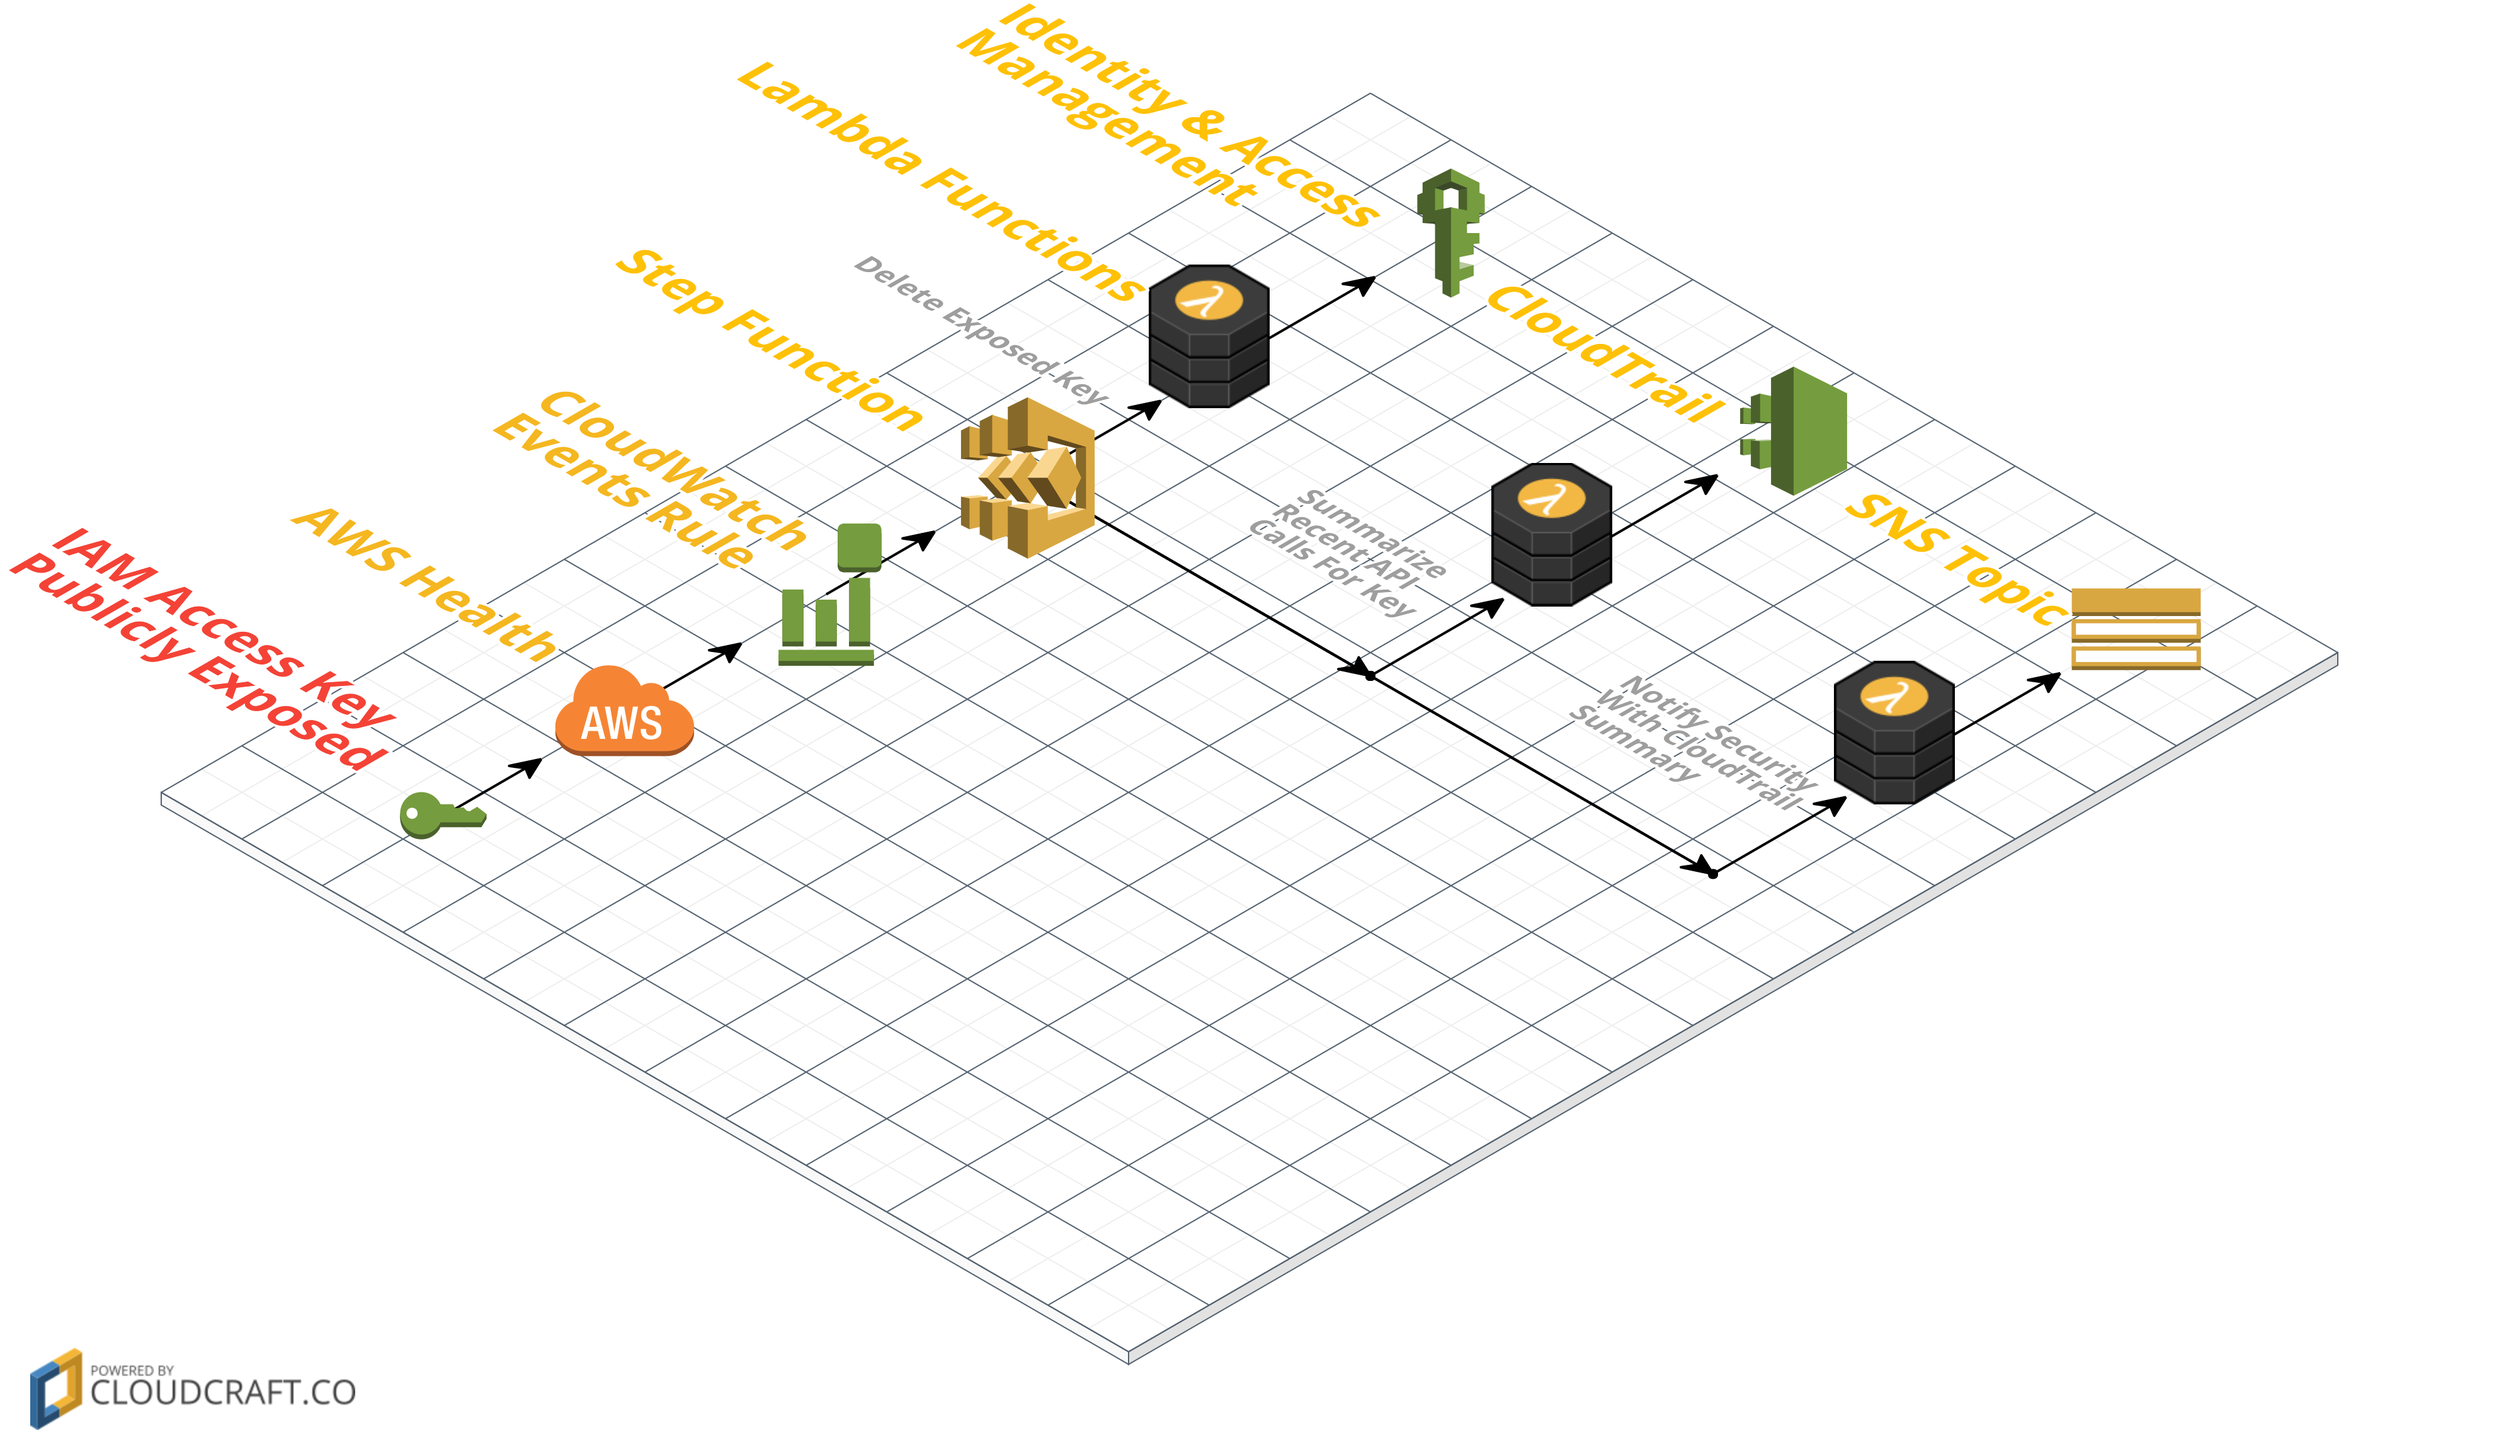
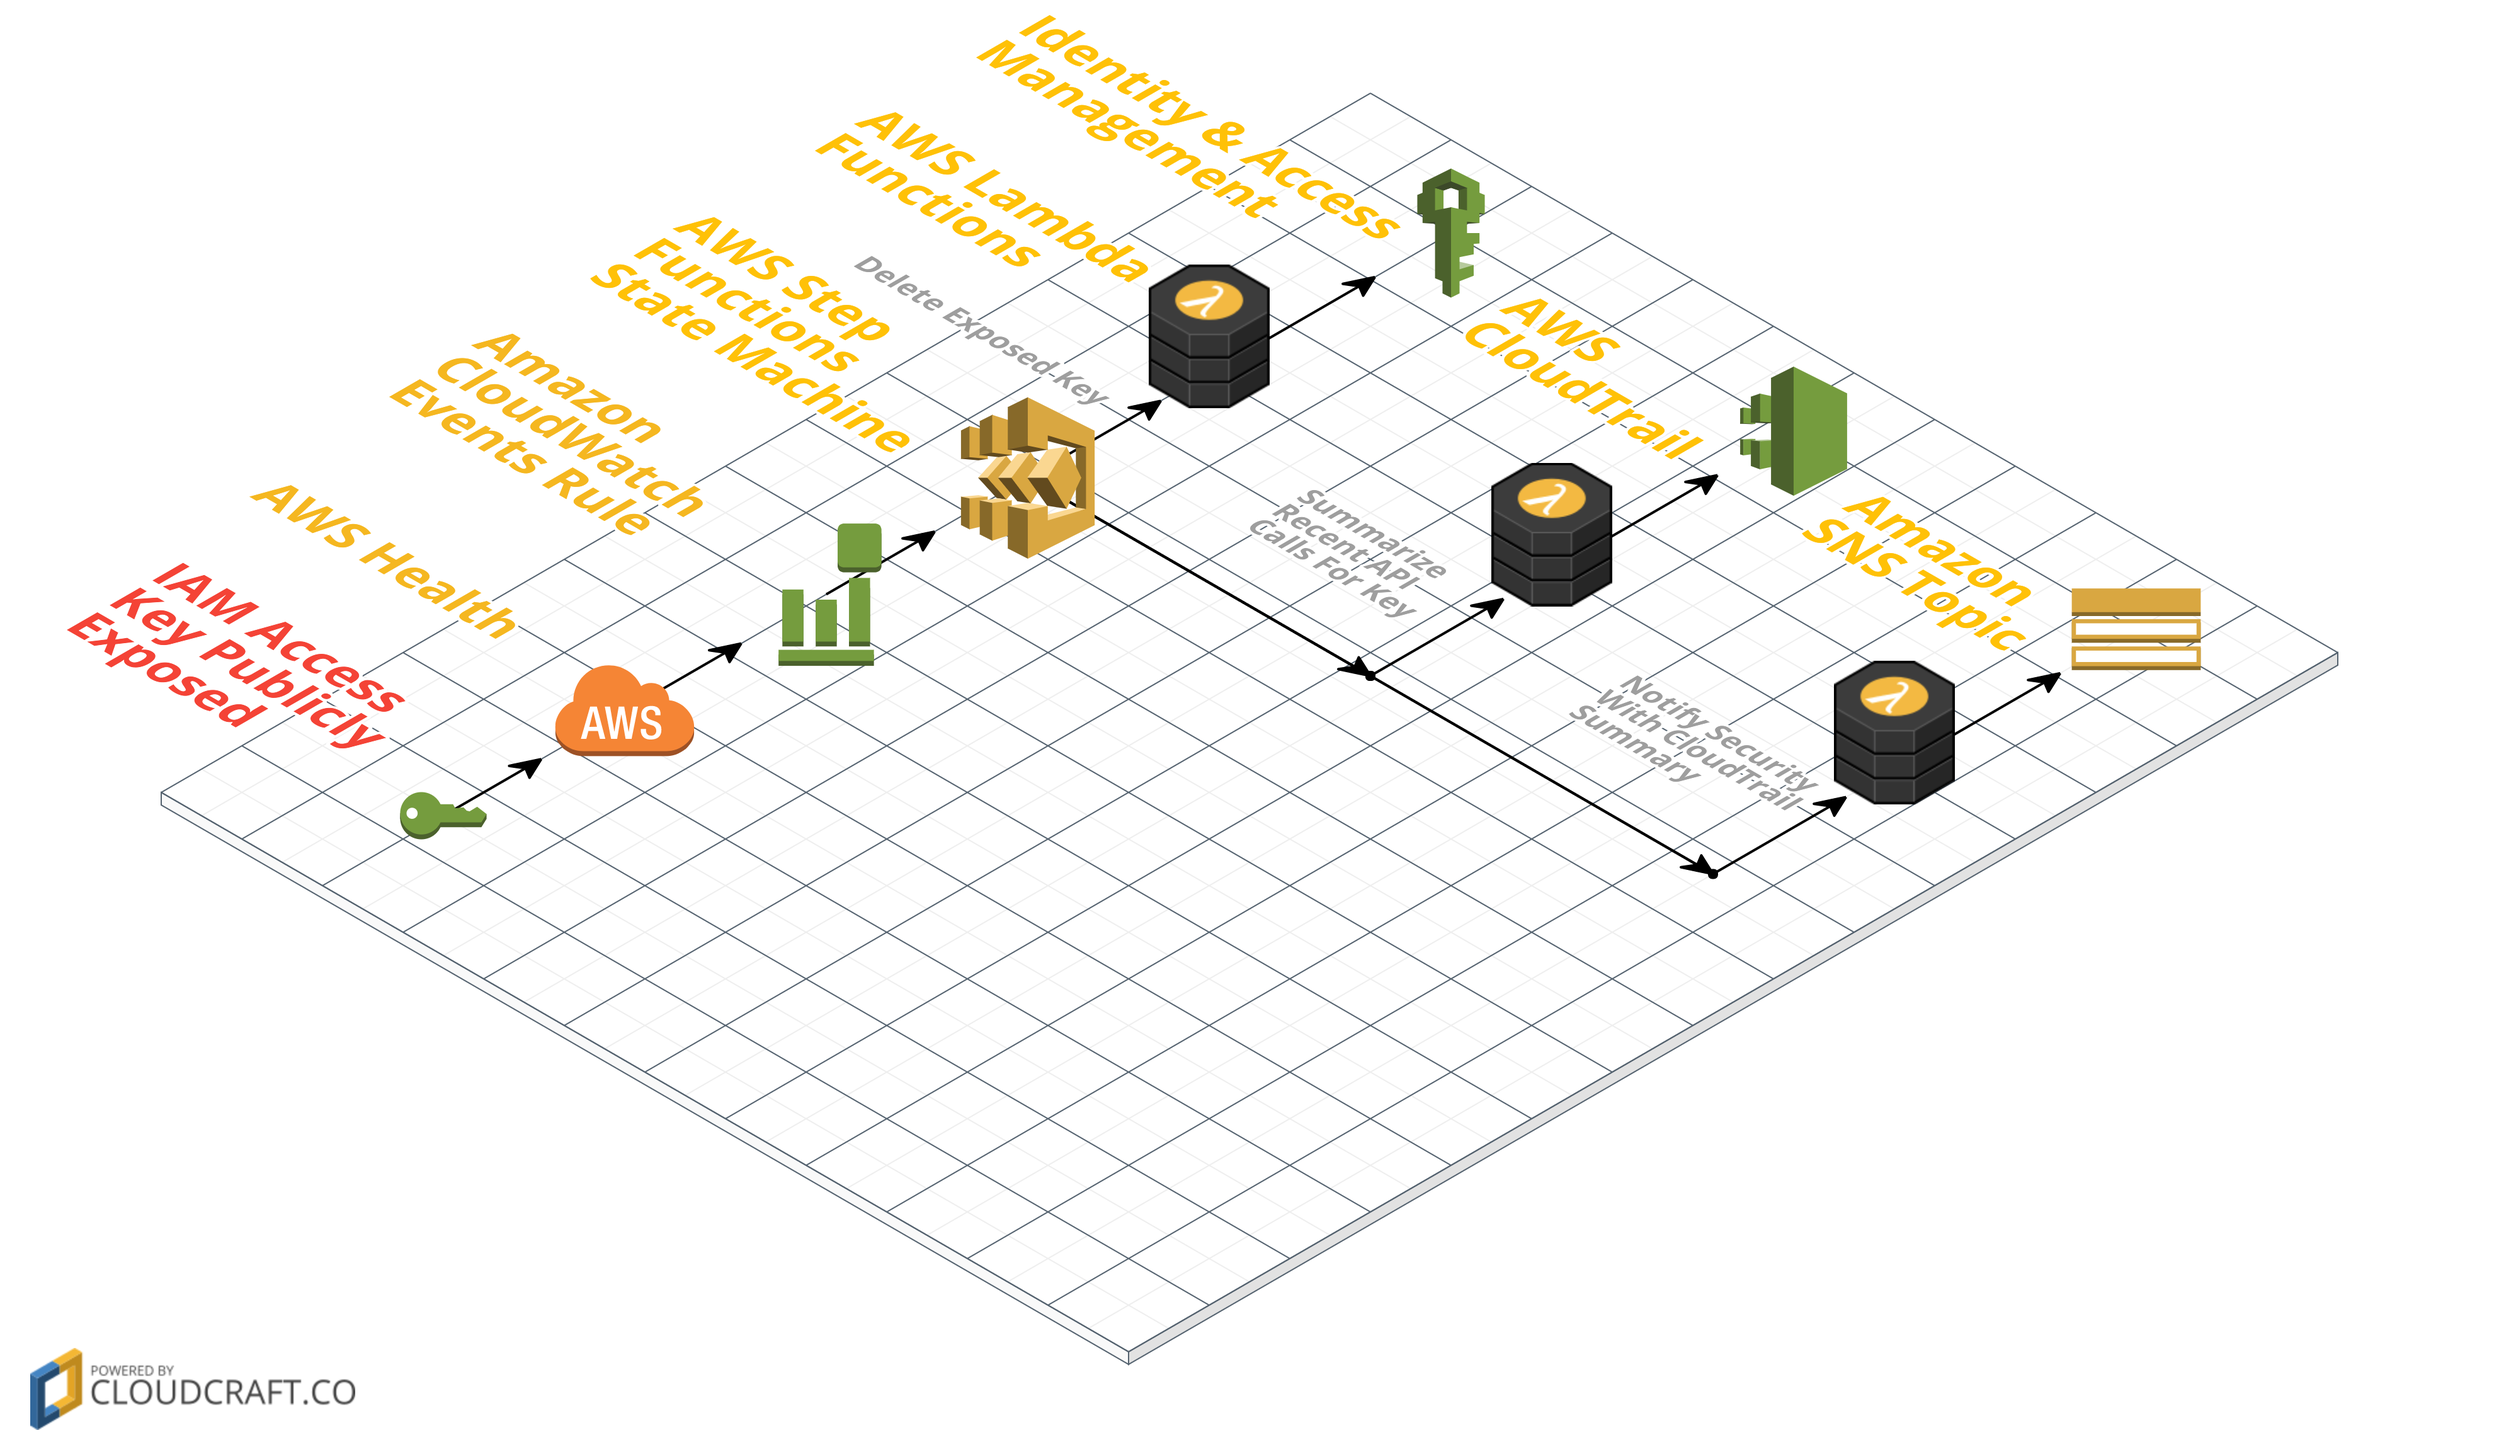
Update service names to long form.

diff --git a/automated-actions/AWS_RISK_CREDENTIALS_EXPOSED/README.md b/automated-actions/AWS_RISK_CREDENTIALS_EXPOSED/README.md
@@ -1,6 +1,8 @@
 # AWS Health AWS_RISK_CREDENTIALS_EXPOSED
 
-AWS proactively monitors popular code repository sites for exposed IAM access keys. On detection of an exposed IAM access key, AWS Health triggers an AWS_RISK_CREDENTIALS_EXPOSED CloudWatch Event. In response to this event, an automated workflow deletes the exposed IAM Access Key, summarizes the recent API activity for the exposed key, and sends the summary message to an SNS Topic to notify the subscribers- all orchestrated by an AWS Step Functions state machine.
+This example demonstrates how to use [AWS Step Functions](https://aws.amazon.com/step-functions/) to orchestrate a serverless [AWS Lambda](http://aws.amazon.com/lambda/) workflow in response to an [Amazon CloudWatch](https://aws.amazon.com/cloudwatch/) Event generated by [AWS Health](http://docs.aws.amazon.com/health/latest/ug/what-is-aws-health.html). 
+
+AWS proactively monitors popular code repository sites for exposed IAM access keys. On detection of an exposed IAM access key, AWS Health generates an AWS_RISK_CREDENTIALS_EXPOSED CloudWatch Event. In response to this event, an automated workflow deletes the exposed IAM Access Key, summarizes the recent API activity for the exposed key, and sends the summary message to an SNS Topic to notify the subscribers- all orchestrated by an AWS Step Functions state machine.
 
 This repository contains sample code for all the Lambda functions depicted in the diagram below as well as an AWS CloudFormation template for creating the functions and related resources.
 
@@ -8,7 +10,7 @@ This repository contains sample code for all the Lambda functions depicted in th
 
 ### Walkthrough of the Architecture
 1. An IAM Access Key is inadvertently uploaded to one of the popular code repositories monitored by AWS.
-1. AWS Health detects the key, triggering a AWS_RISK_CREDENTIALS_EXPOSED CloudWatch Event. AWS also temporarily restricts the API calls the key is able to make.
+1. AWS Health detects the key, generating a AWS_RISK_CREDENTIALS_EXPOSED CloudWatch Event. AWS also temporarily restricts the API calls the key is able to make.
 1. A configured CloudWatch Events rule matches this event, triggering an execution of the `ExposedKey` state machine, which has the following sub-steps:
     * Delete the exposed IAM Access Key Pair
     * Summarize recent API activity for the user from CloudTrail
